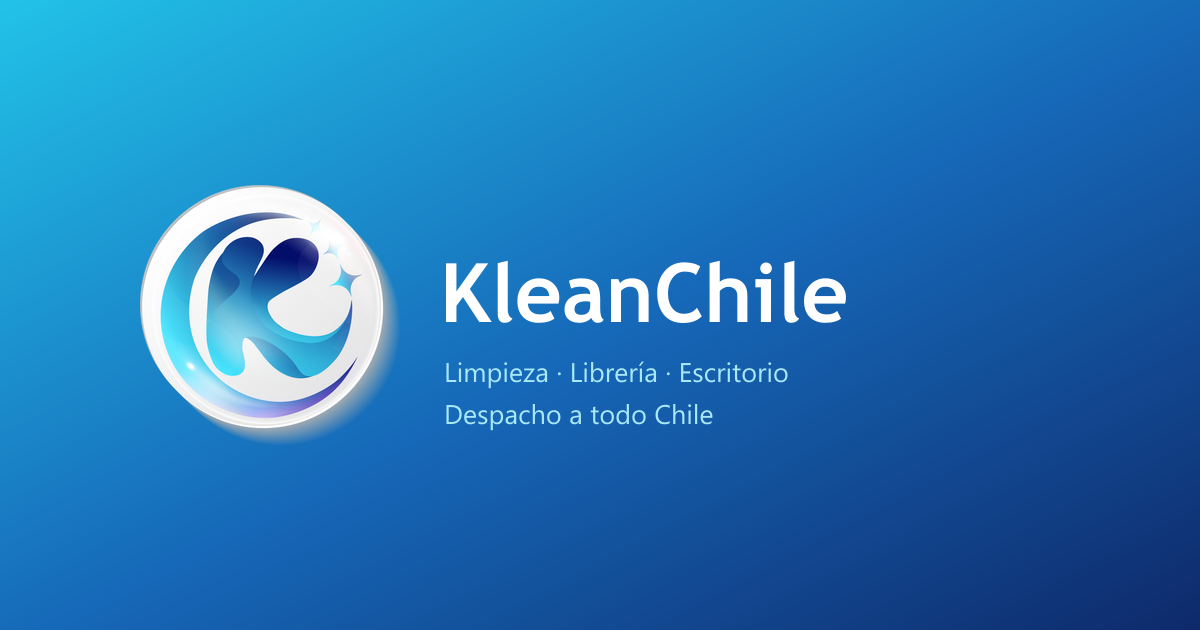
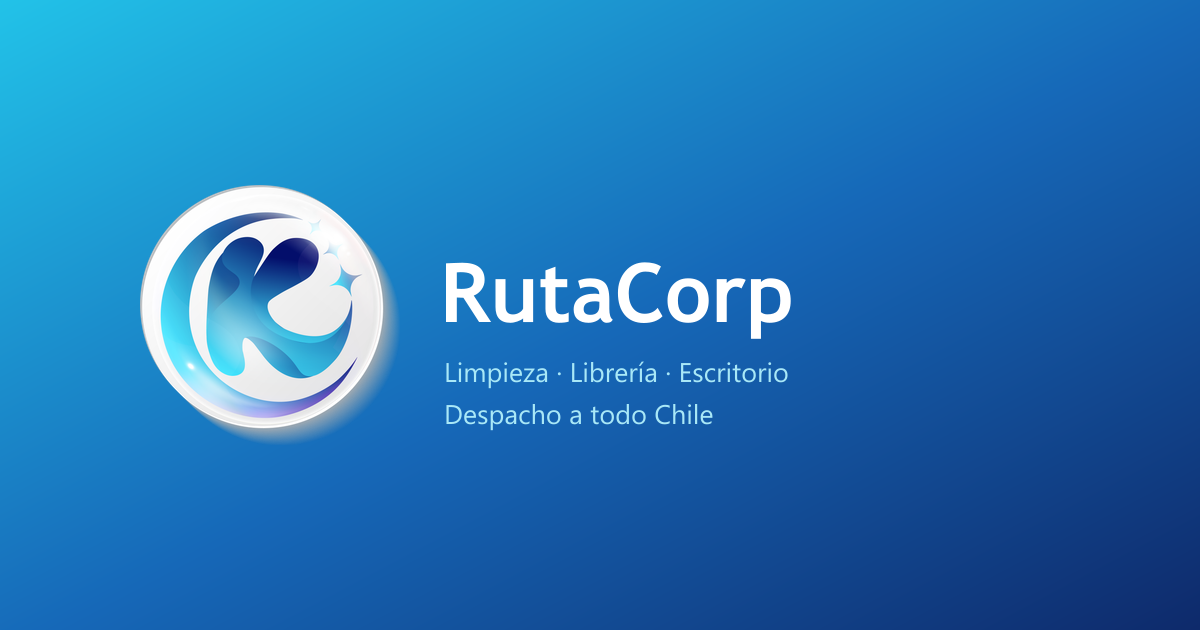
renaming site to rutacorp.cl

Changed region(s): [[0.37, 0.3921, 0.7092, 0.5429]]

diff --git a/src/View/About/About.js b/src/View/About/About.js
@@ -78,7 +78,7 @@ export default function About() {
           <p className="about__eyebrow">Nosotros</p>
           <h1>Todo lo que tu organización necesita para funcionar mejor</h1>
           <p className="about__lede">
-            En KleanChile conectamos a empresas e instituciones con soluciones prácticas para
+            En RutaCorp conectamos a empresas e instituciones con soluciones prácticas para
             sus espacios: limpieza profesional, artículos de librería, productos de escritorio
             y maquinaria.
           </p>
@@ -148,7 +148,7 @@ export default function About() {
           <p className="about__eyebrow">A quién ayudamos</p>
           <h2 id="about-clients-title">Entendemos necesidades distintas</h2>
           <p>
-            Cada rubro tiene su propio ritmo, volumen de consumo y forma de operar. KleanChile
+            Cada rubro tiene su propio ritmo, volumen de consumo y forma de operar. RutaCorp
             atiende requerimientos de organizaciones que necesitan abastecer sus espacios de
             manera ordenada, desde compras específicas hasta cotizaciones por volumen.
           </p>
@@ -193,7 +193,7 @@ export default function About() {
             tomar una decisión.
           </p>
           <p>
-            KleanChile nace para acompañar el funcionamiento diario de empresas e instituciones
+            RutaCorp nace para acompañar el funcionamiento diario de empresas e instituciones
             con soluciones útiles, accesibles y alineadas con sus requerimientos reales.
           </p>
         </div>
@@ -204,7 +204,7 @@ export default function About() {
           <p className="about__eyebrow">¿Tienes un requerimiento?</p>
           <h2>Conversemos sobre lo que necesitas</h2>
         </div>
-        <Link href="/contact">Contactar a KleanChile</Link>
+        <Link href="/contact">Contactar a RutaCorp</Link>
       </RevealSection>
     </div>
   );

diff --git a/scripts/build-logo-assets.js b/scripts/build-logo-assets.js
@@ -38,7 +38,7 @@ const assets = [
     to: "wordmark.png",
     // Rendered at ~46px tall in the navbar and ~64px in the footer.
     height: 160,
-    note: "stacked mark + KleanChile + tagline, for light backgrounds",
+    note: "stacked mark + RutaCorp + tagline, for light backgrounds",
   },
   /*
    * There is no light wordmark asset.
@@ -139,7 +139,7 @@ const background = Buffer.from(
      </defs>
      <rect width="100%" height="100%" fill="url(#k)"/>
      <text x="440" y="322" font-family="Poppins, Trebuchet MS, sans-serif" font-size="82"
-           font-weight="800" fill="#ffffff">KleanChile</text>
+           font-weight="800" fill="#ffffff">RutaCorp</text>
      <text x="444" y="382" font-family="IBM Plex Sans, Segoe UI, sans-serif" font-size="27"
            fill="#a9e8f7">Limpieza · Librería · Escritorio</text>
      <text x="444" y="424" font-family="IBM Plex Sans, Segoe UI, sans-serif" font-size="27"

diff --git a/src/admin/components/SignInForm.jsx b/src/admin/components/SignInForm.jsx
@@ -12,7 +12,7 @@ export default function SignInForm() {
       <section className="admin-login__card">
         <NextLink href="/" className="admin-login__brand">
           <img src="/brand/mark.png" alt="" width={256} height={256} />
-          <strong>KleanChile</strong>
+          <strong>RutaCorp</strong>
         </NextLink>
 
         <div className="admin-login__intro">
@@ -24,7 +24,7 @@ export default function SignInForm() {
         <form action={formAction}>
           <label>
             Correo electrónico
-            <input required type="email" name="email" autoComplete="username" placeholder="admin@kleanchile.cl" />
+            <input required type="email" name="email" autoComplete="username" placeholder="admin@rutacorp.cl" />
           </label>
           <label>
             Contraseña

diff --git a/src/lib/previewGate.js b/src/lib/previewGate.js
@@ -31,8 +31,8 @@
  * hash y no sobre la contraseña, y un hash no se puede recorrer a ciegas.
  */
 
-const REALM = "KleanChile - vista previa";
-const DEFAULT_USER = "kleanchile";
+const REALM = "RutaCorp - vista previa";
+const DEFAULT_USER = "rutacorp";
 
 async function sha256(value) {
   const digest = await crypto.subtle.digest("SHA-256", new TextEncoder().encode(value));
@@ -52,7 +52,7 @@ export async function previewChallenge(request) {
 
   if (offered && (await sha256(offered)) === (await sha256(expected))) return null;
 
-  return new Response("KleanChile — sitio en vista previa privada.\n", {
+  return new Response("RutaCorp — sitio en vista previa privada.\n", {
     status: 401,
     headers: {
       "WWW-Authenticate": `Basic realm="${REALM}", charset="UTF-8"`,

diff --git a/src/infra/pdf/specSheet.js b/src/infra/pdf/specSheet.js
@@ -100,7 +100,7 @@ function header(doc, mark) {
     .font("Helvetica-Bold")
     .fontSize(16)
     .fillColor(NAVY)
-    .text("KleanChile", MARGIN + (mark ? 40 : 0), top + 8, { lineBreak: false });
+    .text("RutaCorp", MARGIN + (mark ? 40 : 0), top + 8, { lineBreak: false });
 
   doc
     .font("Helvetica")
@@ -173,9 +173,9 @@ export async function renderSpecSheet({ product, specs, contactLines = [] }) {
     autoFirstPage: false,
     info: {
       Title: `Ficha técnica · ${product.name}`,
-      Author: "KleanChile",
+      Author: "RutaCorp",
       Subject: product.skuCode ? `SKU ${product.skuCode}` : "Ficha técnica",
-      Creator: "KleanChile",
+      Creator: "RutaCorp",
     },
   });
 

diff --git a/app/(public)/nosotros/page.js b/app/(public)/nosotros/page.js
@@ -2,7 +2,7 @@ import About from "../../../src/View/About/About";
 import { absoluteUrl } from "../../../src/lib/site.js";
 
 const description =
-  "Conoce KleanChile, nuestras soluciones de limpieza, librería, escritorio y maquinaria, y cómo ayudamos a empresas e instituciones de todo Chile.";
+  "Conoce RutaCorp, nuestras soluciones de limpieza, librería, escritorio y maquinaria, y cómo ayudamos a empresas e instituciones de todo Chile.";
 
 /* Canónica y `og:url` explícitas — ver la nota en `contact/page.js`: sin ellas
    se hereda la de la portada y esta página se auto-descarta del índice. */

diff --git a/scripts/verify-media.js b/scripts/verify-media.js
@@ -13,7 +13,7 @@ const sharp = (await import("sharp")).default;
  *
  *   node scripts/verify-media.js            # solo el pipeline, sin red
  *   node scripts/verify-media.js --r2       # además sube, lee y borra en R2
- *   node scripts/verify-media.js --r2 --cors https://kleanchile.cl
+ *   node scripts/verify-media.js --r2 --cors https://rutacorp.cl
  *
  * Sin `--r2` no toca la red: comprueba que sharp produce el escalón esperado y
  * que la URL resultante se puede volver a leer para armar el `srcset`. Ese

diff --git a/scripts/create-admin.js b/scripts/create-admin.js
@@ -15,7 +15,7 @@ const { hashPassword } = await import("../src/infra/auth/password.js");
  * mint an account are the ones who already have access to the deployment. This
  * is that door.
  *
- *   npm run admin:create -- --email tu@kleanchile.cl --name "Tu Nombre" --owner
+ *   npm run admin:create -- --email tu@rutacorp.cl --name "Tu Nombre" --owner
  *
  * A password is generated and printed unless `--password` is given. Generating
  * it is the default because a password typed on the command line ends up in

diff --git a/app/admin/layout.js b/app/admin/layout.js
@@ -10,7 +10,7 @@ export const metadata = {
    * a tab reading just "Pedidos". Admin tabs are also the ones most likely to
    * sit beside half a dozen shop tabs, so they say which side they are on.
    */
-  title: { default: "Administración", template: "%s · Admin KleanChile" },
+  title: { default: "Administración", template: "%s · Admin RutaCorp" },
   // Nothing under /admin should ever be indexed, and this is inherited by
   // every page below it.
   robots: { index: false, follow: false },

diff --git a/src/View/Contact/Contact.js b/src/View/Contact/Contact.js
@@ -18,7 +18,7 @@ import { useState } from "react";
 /**
  * What a free-text contact line is.
  *
- * The admin types lines, not typed fields — "contacto@kleanchile.cl", "+56 9
+ * The admin types lines, not typed fields — "contacto@rutacorp.cl", "+56 9
  * 1234 5678", "Temuco, Chile" — and that is worth keeping: a shop with two
  * numbers and no email should not have to fight a form. So the kind is inferred
  * here, and a line that matches nothing still renders, just without a link.

diff --git a/src/View/Home/Home.js b/src/View/Home/Home.js
@@ -47,7 +47,7 @@ export default function Home({ content, bestSellers = [] }) {
         cold and to a crawler deciding what this page is about.
       */}
       <h1 className="sr-only">
-        KleanChile — productos de limpieza, librería y artículos de escritorio para instituciones
+        RutaCorp — productos de limpieza, librería y artículos de escritorio para instituciones
       </h1>
 
       {content.hero.slides.length > 0 && <Banner data={content.hero} />}

diff --git a/src/domain/content/schemas.js b/src/domain/content/schemas.js
@@ -164,7 +164,7 @@ const navDropdownSchema = z.object({
 });
 
 export const navigationSchema = z.object({
-  brand: text("KleanChile"),
+  brand: text("RutaCorp"),
   searchPlaceholder: text("Buscar productos..."),
   links: z
     .array(
@@ -178,7 +178,7 @@ export const navigationSchema = z.object({
 });
 
 export const footerSchema = z.object({
-  brand: text("KleanChile"),
+  brand: text("RutaCorp"),
   description: text(),
   sections: z
     .array(
